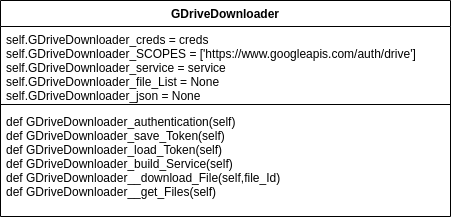
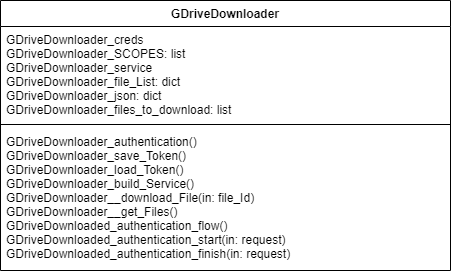
update design doc

Changed region(s): [[0.0, 0.0, 1.0, 0.9545], [0.0, 0.9818, 1.0, 1.0]]

diff --git a/Docs/Design/google.tex b/Docs/Design/google.tex
@@ -26,7 +26,10 @@ The attribute GDriveDownloader\_service holds the built service.
 The attribute GDriveDownloader\_file\_List holds the list of files from Google Drive.
 
 \textbf{GDriveDownloader\_json} \\
-The attribute GDriveDownloader\_json holds the JSON needed by the UI. 
+The attribute GDriveDownloader\_json holds the JSON needed by the UI.
+
+\textbf{GDriveDownloader\_files\_to\_download} \\
+The attribute GDriveDownloader\_files\_to\_download holds a list of dictionaries.
 %
 \subsubsection{Methods}
 \textbf{GDriveDownloader\_authentication} \\
@@ -42,7 +45,19 @@ This method loads the token from a file.
 This method builds the service from the scope and the authentication token.
 
 \textbf{GDriveDownloader\_\_download\_File} \\
-This method downloads a file with the selected file ids. 
+This method loops overGDriveDownloader\_files\_to\_download and downloads the files to the working dictionary. 
 
 \textbf{GDriveDownloader\_\_get\_Files} \\
 This method queries Google Drive for the files stored in the user's Google account. It will also create the JSON for the UI and store it in GDriveDownloader\_json.   
+
+\textbf{GDriveDownloader\_add\_file\_to\_download} \\
+This method takes a dictionary with keys 'name' and 'id' as input and appends it to overGDriveDownloader\_files\_to\_download.
+
+\textbf{GDriveDownloaded\_authentication\_flow} \\
+This method creates the autentication flow using the seceret from google.
+
+\textbf{GDriveDownloaded\_authentication\_start} \\
+This method get the url to redirect to google's login page.
+
+\textbf{GDriveDownloaded\_authentication\_finish} \\
+This method gets a json with the access token, turns it into a Credential object, builds the service and gets the files. It then redircts to the files page. 
